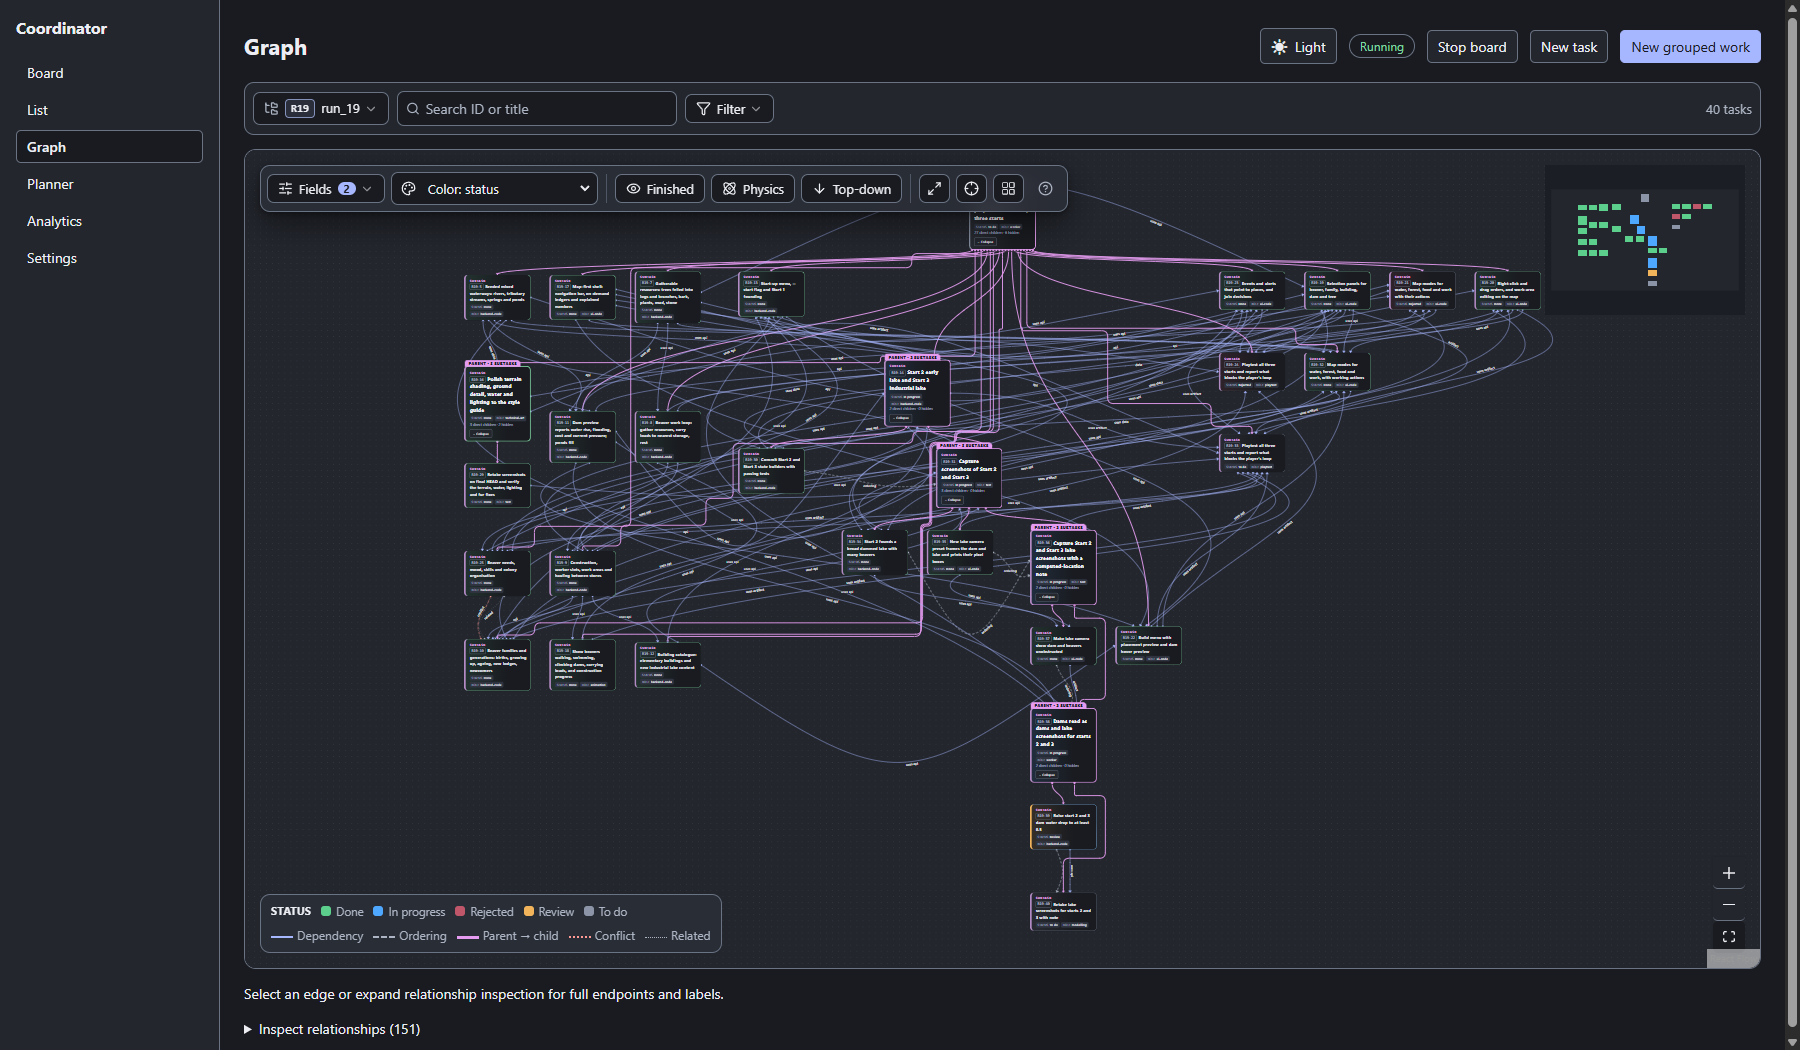
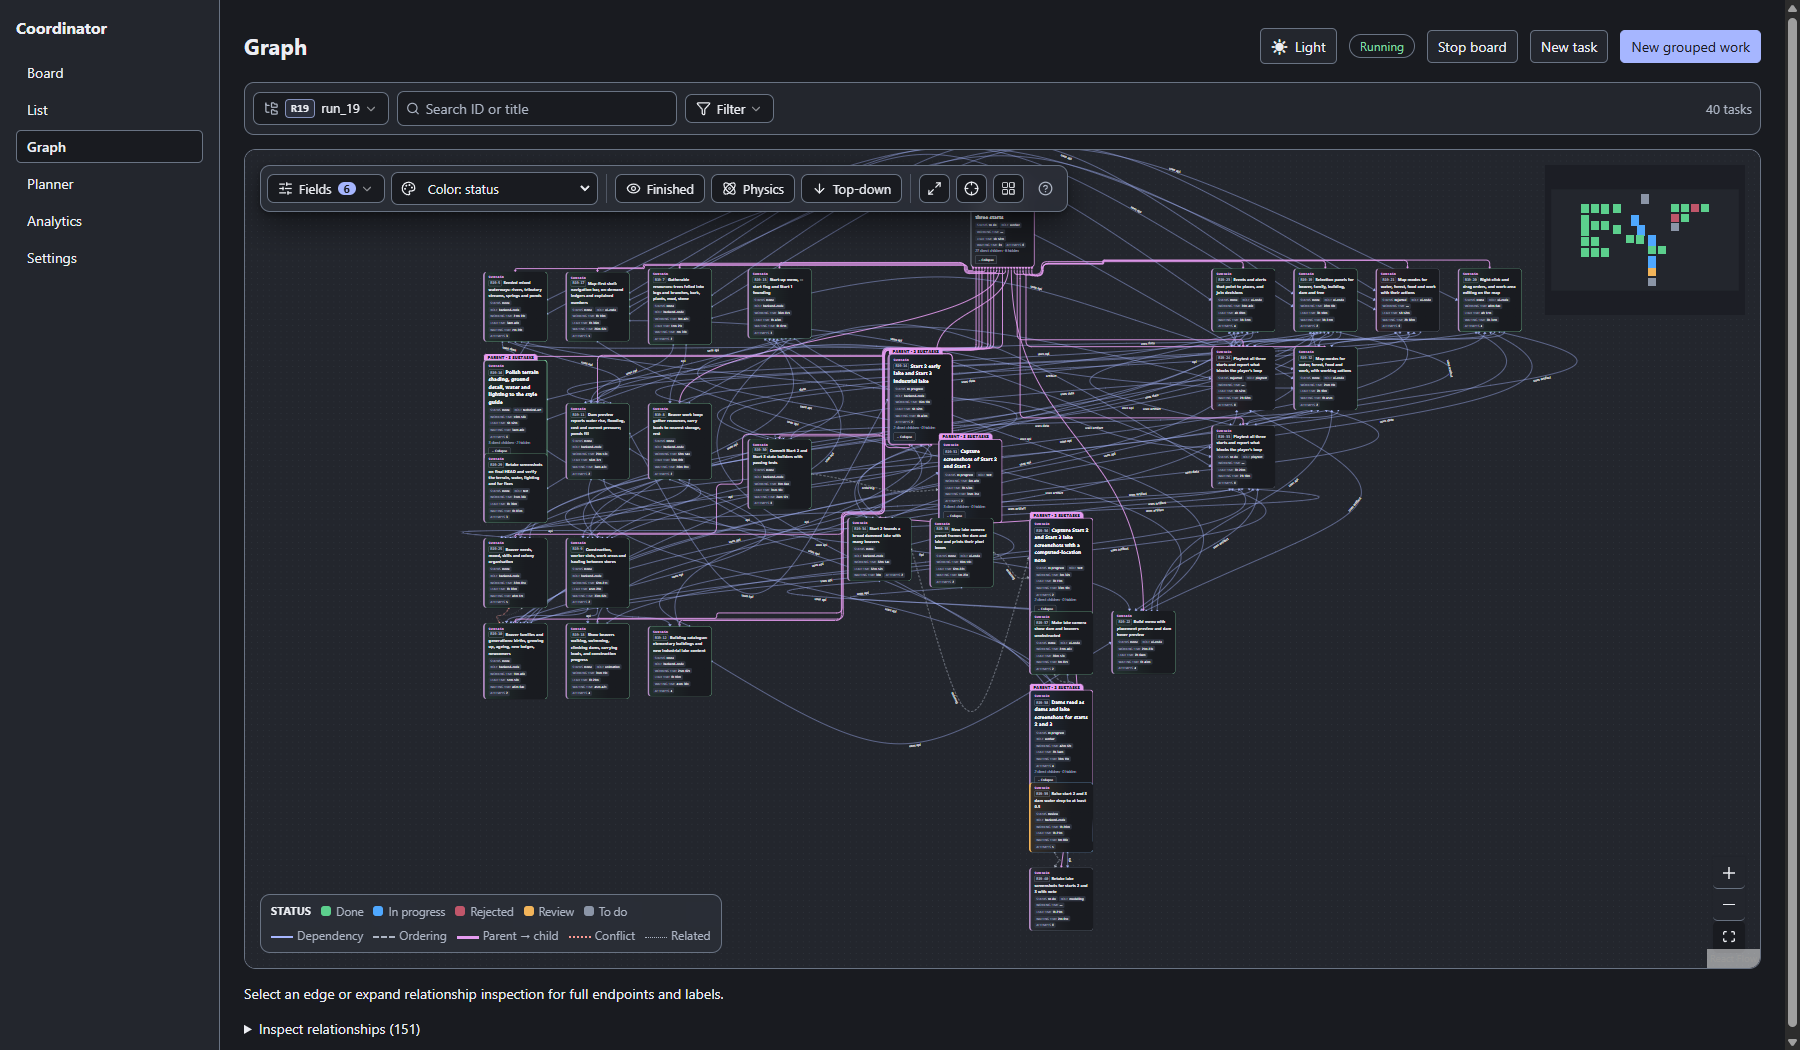
Add graph close-up and physics screenshots to README

diff --git a/README.md b/README.md
@@ -50,9 +50,27 @@ The same tasks as a table, with status, role, languages, functions, execution ca
 
 ### Graph
 
-The plan as a graph: containers and their children, dependencies, ordering, conflicts and related tasks, each drawn with its own line style. Nodes are coloured by status or another field, and finished work can be hidden. Layout is top-down or force-directed, with a minimap, zoom and fit controls. **Inspect relationships** lists every edge with its endpoints and labels.
+The plan as a graph: containers and their children, dependencies, ordering, conflicts and related tasks, each drawn with its own line style. **Fields** picks what each node shows; here it is status, role, working time, lead time, waiting time and attempts. Nodes are coloured by status or another field, and finished work can be hidden. **Inspect relationships** lists every edge with its endpoints and labels.
 
-![Graph](docs/screenshots/graph.png)
+The layered layout runs top-down or left-right:
+
+![Graph, top-down](docs/screenshots/graph.png)
+
+**Physics** switches to a force-directed layout that pulls related tasks together:
+
+![Graph, physics](docs/screenshots/graph-physics.png)
+
+Up close, each connection shows what it means. Pink lines run from a parent to its children. Solid lines are dependencies, labelled with what the dependent task uses from the other (`uses api`, `uses data`, `uses artifact`). Dashed lines are ordering only.
+
+![Parents, children and dependencies](docs/screenshots/graph-closeup-dependencies.png)
+
+A parent task with its subtasks, the tasks it waits on, and the labelled links between them:
+
+![A parent and its subtasks](docs/screenshots/graph-closeup-parents.png)
+
+A short chain: a parent with two subtasks, where the second uses the first's API and is also ordered after it:
+
+![A dependency chain](docs/screenshots/graph-closeup-chain.png)
 
 ### Planner
 
